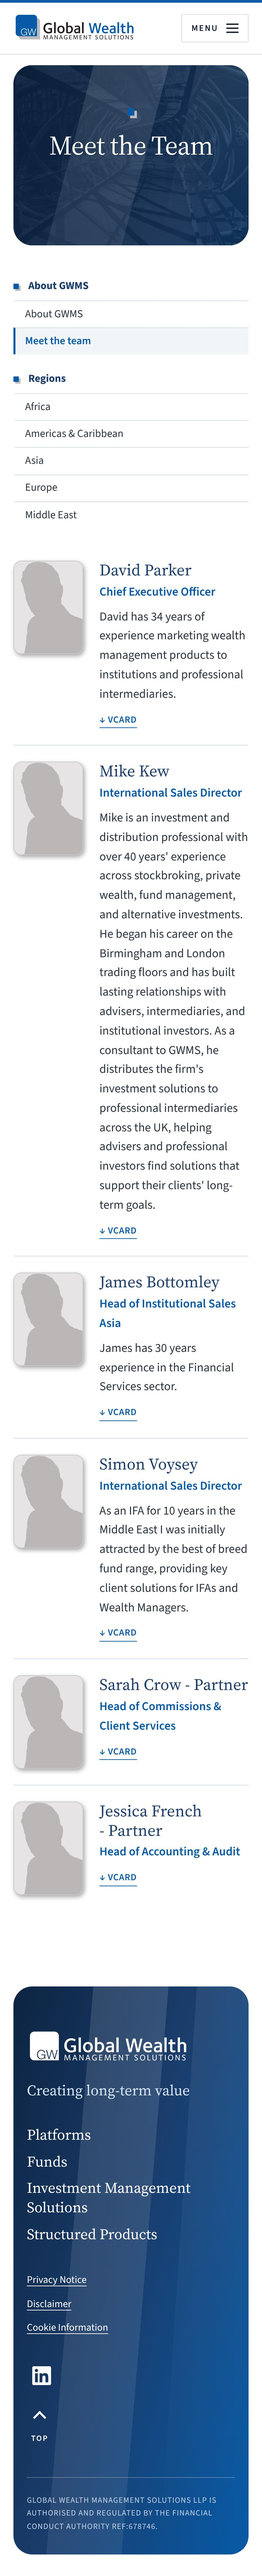
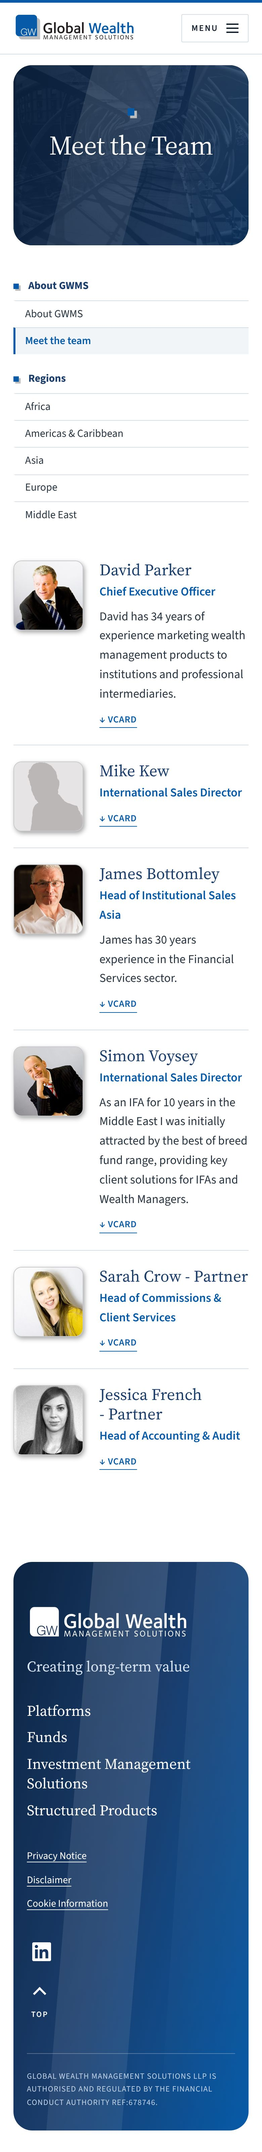
Add team photos (square crops on list, full portraits on personal pages)
Claude-Session: https://claude.ai/code/session_01Vdz9cEpY9e2nZicQTN6XQm

diff --git a/dist/meet-the-team.html b/dist/meet-the-team.html
@@ -128,7 +128,7 @@
     <article>
 <ul class="team">
 <li class="member">
-  <img class="member__photo" src="img/team/duffprofile.jpg" width="337" height="337" alt="" loading="lazy">
+  <img class="member__photo" src="img/team/david-parker-square.jpg" width="300" height="300" alt="" loading="lazy">
   <div class="member__text">
     <h2 class="member__name"><a href="team-david-parker.html">David Parker</a></h2>
     <p class="member__role">Chief Executive Officer</p>
@@ -137,7 +137,7 @@
   </div>
 </li>
 <li class="member">
-  <img class="member__photo" src="img/team/duffprofile.jpg" width="337" height="337" alt="" loading="lazy">
+  <img class="member__photo" src="img/team/duffprofile.jpg" width="300" height="300" alt="" loading="lazy">
   <div class="member__text">
     <h2 class="member__name"><a href="team-mike-kew.html">Mike Kew</a></h2>
     <p class="member__role">International Sales Director</p>
@@ -146,7 +146,7 @@
   </div>
 </li>
 <li class="member">
-  <img class="member__photo" src="img/team/duffprofile.jpg" width="337" height="337" alt="" loading="lazy">
+  <img class="member__photo" src="img/team/james-bottomley-square.jpg" width="300" height="300" alt="" loading="lazy">
   <div class="member__text">
     <h2 class="member__name"><a href="team-james-bottomley.html">James Bottomley</a></h2>
     <p class="member__role">Head of Institutional Sales Asia</p>
@@ -155,7 +155,7 @@
   </div>
 </li>
 <li class="member">
-  <img class="member__photo" src="img/team/duffprofile.jpg" width="337" height="337" alt="" loading="lazy">
+  <img class="member__photo" src="img/team/simon-voysey-square.jpg" width="300" height="300" alt="" loading="lazy">
   <div class="member__text">
     <h2 class="member__name"><a href="team-simon-voysey.html">Simon Voysey</a></h2>
     <p class="member__role">International Sales Director</p>
@@ -164,7 +164,7 @@
   </div>
 </li>
 <li class="member">
-  <img class="member__photo" src="img/team/duffprofile.jpg" width="337" height="337" alt="" loading="lazy">
+  <img class="member__photo" src="img/team/sarah-crow-square.jpg" width="300" height="300" alt="" loading="lazy">
   <div class="member__text">
     <h2 class="member__name"><a href="team-sarah-crow.html">Sarah Crow - Partner</a></h2>
     <p class="member__role">Head of Commissions &amp; Client Services</p>
@@ -173,7 +173,7 @@
   </div>
 </li>
 <li class="member">
-  <img class="member__photo" src="img/team/duffprofile.jpg" width="337" height="337" alt="" loading="lazy">
+  <img class="member__photo" src="img/team/jessica-french-square.jpg" width="300" height="300" alt="" loading="lazy">
   <div class="member__text">
     <h2 class="member__name"><a href="team-jessica-french.html">Jessica French - Partner</a></h2>
     <p class="member__role">Head of Accounting &amp; Audit</p>

diff --git a/dist/css/concept.css b/dist/css/concept.css
@@ -248,7 +248,7 @@
 .member:last-child { border-bottom: 0; }
 /* Portrait style: soft rounded corners, hairline edge and a gentle drop shadow (no coloured border) */
 .member__photo, .page-header__photo {
-  display: block; width: 100%; aspect-ratio: 3 / 4; object-fit: cover; background: var(--mist);
+  display: block; width: 100%; aspect-ratio: 1 / 1; object-fit: cover; background: var(--mist);
   border-radius: 0.75rem; border: 1px solid rgba(0, 0, 0, 0.18); box-shadow: 2px 3px 7px rgba(0, 0, 0, 0.35);
 }
 .member__text { padding: 0; }
@@ -274,7 +274,7 @@
 /* Team member pages */
 .member__name a { color: inherit; text-decoration: none; }
 .member__name a:hover { color: var(--gw-blue); text-decoration: underline; text-underline-offset: 0.2em; }
-.page-header__photo { width: 6.25rem; flex: none; }
+.page-header__photo { width: 8rem; aspect-ratio: 3 / 4; flex: none; }
 .prose .member__role { margin: 0 0 var(--s-5); color: var(--gw-blue); font-weight: 600; font-size: var(--step-1); }
 .bizcard { max-width: 28rem; background: #fff; border: 1px solid var(--rule); border-left: 4px solid var(--gw-blue); border-radius: 0.9rem; padding: var(--s-4) var(--s-5); margin: var(--s-4) 0 var(--s-5); }
 .bizcard ul { list-style: none; margin: 0; padding: 0; }

diff --git a/preview/css/concept.css b/preview/css/concept.css
@@ -248,7 +248,7 @@
 .member:last-child { border-bottom: 0; }
 /* Portrait style: soft rounded corners, hairline edge and a gentle drop shadow (no coloured border) */
 .member__photo, .page-header__photo {
-  display: block; width: 100%; aspect-ratio: 3 / 4; object-fit: cover; background: var(--mist);
+  display: block; width: 100%; aspect-ratio: 1 / 1; object-fit: cover; background: var(--mist);
   border-radius: 0.75rem; border: 1px solid rgba(0, 0, 0, 0.18); box-shadow: 2px 3px 7px rgba(0, 0, 0, 0.35);
 }
 .member__text { padding: 0; }
@@ -274,7 +274,7 @@
 /* Team member pages */
 .member__name a { color: inherit; text-decoration: none; }
 .member__name a:hover { color: var(--gw-blue); text-decoration: underline; text-underline-offset: 0.2em; }
-.page-header__photo { width: 6.25rem; flex: none; }
+.page-header__photo { width: 8rem; aspect-ratio: 3 / 4; flex: none; }
 .prose .member__role { margin: 0 0 var(--s-5); color: var(--gw-blue); font-weight: 600; font-size: var(--step-1); }
 .bizcard { max-width: 28rem; background: #fff; border: 1px solid var(--rule); border-left: 4px solid var(--gw-blue); border-radius: 0.9rem; padding: var(--s-4) var(--s-5); margin: var(--s-4) 0 var(--s-5); }
 .bizcard ul { list-style: none; margin: 0; padding: 0; }

diff --git a/dist/team-sarah-crow.html b/dist/team-sarah-crow.html
@@ -117,7 +117,7 @@
     <article>
       <header class="page-header">
         <h1>Sarah Crow - Partner</h1>
-        <img class="page-header__photo" src="img/team/duffprofile.jpg" width="337" height="337" alt="">
+        <img class="page-header__photo" src="img/team/sarah-crow.jpg" width="300" height="405" alt="">
       </header>
       <div class="prose">
 <p class="member__role">Head of Commissions & Client Services</p>

diff --git a/dist/team-jessica-french.html b/dist/team-jessica-french.html
@@ -117,7 +117,7 @@
     <article>
       <header class="page-header">
         <h1>Jessica French - Partner</h1>
-        <img class="page-header__photo" src="img/team/duffprofile.jpg" width="337" height="337" alt="">
+        <img class="page-header__photo" src="img/team/jessica-french.jpg" width="300" height="405" alt="">
       </header>
       <div class="prose">
 <p class="member__role">Head of Accounting & Audit</p>

diff --git a/dist/team-james-bottomley.html b/dist/team-james-bottomley.html
@@ -117,7 +117,7 @@
     <article>
       <header class="page-header">
         <h1>James Bottomley</h1>
-        <img class="page-header__photo" src="img/team/duffprofile.jpg" width="337" height="337" alt="">
+        <img class="page-header__photo" src="img/team/james-bottomley.jpg" width="300" height="405" alt="">
       </header>
       <div class="prose">
 <p class="member__role">Head of Institutional Sales Asia</p>

diff --git a/dist/team-simon-voysey.html b/dist/team-simon-voysey.html
@@ -117,7 +117,7 @@
     <article>
       <header class="page-header">
         <h1>Simon Voysey</h1>
-        <img class="page-header__photo" src="img/team/duffprofile.jpg" width="337" height="337" alt="">
+        <img class="page-header__photo" src="img/team/simon-voysey.jpg" width="300" height="405" alt="">
       </header>
       <div class="prose">
 <p class="member__role">International Sales Director</p>

diff --git a/dist/team-david-parker.html b/dist/team-david-parker.html
@@ -117,7 +117,7 @@
     <article>
       <header class="page-header">
         <h1>David Parker</h1>
-        <img class="page-header__photo" src="img/team/duffprofile.jpg" width="337" height="337" alt="">
+        <img class="page-header__photo" src="img/team/david-parker.jpg" width="300" height="405" alt="">
       </header>
       <div class="prose">
 <p class="member__role">Chief Executive Officer</p>

diff --git a/dist/team-mike-kew.html b/dist/team-mike-kew.html
@@ -117,7 +117,7 @@
     <article>
       <header class="page-header">
         <h1>Mike Kew</h1>
-        <img class="page-header__photo" src="img/team/duffprofile.jpg" width="337" height="337" alt="">
+        <img class="page-header__photo" src="img/team/duffprofile.jpg" width="300" height="405" alt="">
       </header>
       <div class="prose">
 <p class="member__role">International Sales Director</p>

diff --git a/tools/make_preview.py b/tools/make_preview.py
@@ -531,11 +531,14 @@ TEAM = [  # name, role, bio (verbatim), slug
     ("Sarah Crow - Partner", "Head of Commissions & Client Services", "", "sarah-crow"),
     ("Jessica French - Partner", "Head of Accounting & Audit", "", "jessica-french"),
 ]
+PHOTOS = {"david-parker", "james-bottomley", "simon-voysey", "sarah-crow", "jessica-french"}   # others: placeholder
 team_items = []
 for name, role, bio, vc in TEAM:
+    list_img = f"/img/team/{vc}-square.jpg" if vc in PHOTOS else "/img/team/duffprofile.jpg"
+    page_img = f"/img/team/{vc}.jpg" if vc in PHOTOS else "/img/team/duffprofile.jpg"
     short = name.split(" - ")[0]
     team_items.append(f'''<li class="member">
-  <img class="member__photo" src="/img/team/duffprofile.jpg" width="337" height="337" alt="" loading="lazy">
+  <img class="member__photo" src="{list_img}" width="300" height="300" alt="" loading="lazy">
   <div class="member__text">
     <h2 class="member__name"><a href="/team-{vc}">{e(name)}</a></h2>
     <p class="member__role">{e(role, quote=False)}</p>
@@ -545,7 +548,7 @@ for name, role, bio, vc in TEAM:
 </li>''')
     mc = body_of("team-" + vc).replace('</ul></div>', f'</ul><a class="member__vcard" href="/vcards/{vc}.vcf" download>vCard<span class="sr-only"> for {e(short)}</span></a></div>')
     role_html, rest = mc.split("\n", 1)
-    photo = f'<img class="page-header__photo" src="/img/team/duffprofile.jpg" width="337" height="337" alt="">'
+    photo = f'<img class="page-header__photo" src="{page_img}" width="300" height="405" alt="">'
     add("/team-" + vc, short, article(name, role_html + "\n" + rest, ABOUT_SIDE("/meet-the-team"), photo), "about")
 TEAM_HTML = '<ul class="team">\n' + "\n".join(team_items) + "\n</ul>"
 add("/meet-the-team", "Meet the Team",

diff --git a/docs/10-build-and-test-results.md b/docs/10-build-and-test-results.md
@@ -79,3 +79,6 @@ Hero text centred; decorative square on its own line; arrow anchor link (`#state
 ## Update: Mike Kew list entry, Dawn Parker on Contact
 - Mike Kew's bio now appears only on his personal page; the team list shows name, photo and title only.
 - Dawn Parker removed from the Contact page (she is now removed everywhere on the site).
+
+## Update: team photos
+Photos supplied by the owner added for David Parker, James Bottomley, Simon Voysey, Sarah Crow and Jessica French (matched to the live-site portraits by image comparison). The Meet the Team list uses a square crop to face and shoulders (`img/team/<name>-square.jpg`); each personal page uses the full 3:4 portrait (`img/team/<name>.jpg`). Mike Kew still uses the placeholder. Crops were set by eye; tell me if any should be re-framed.
